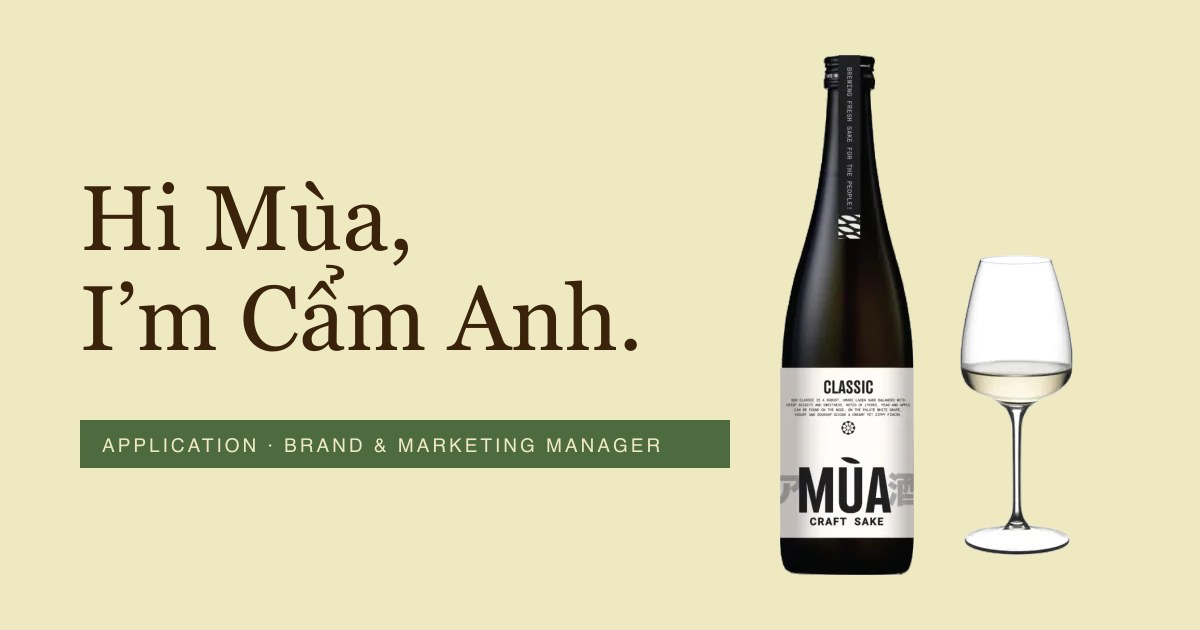
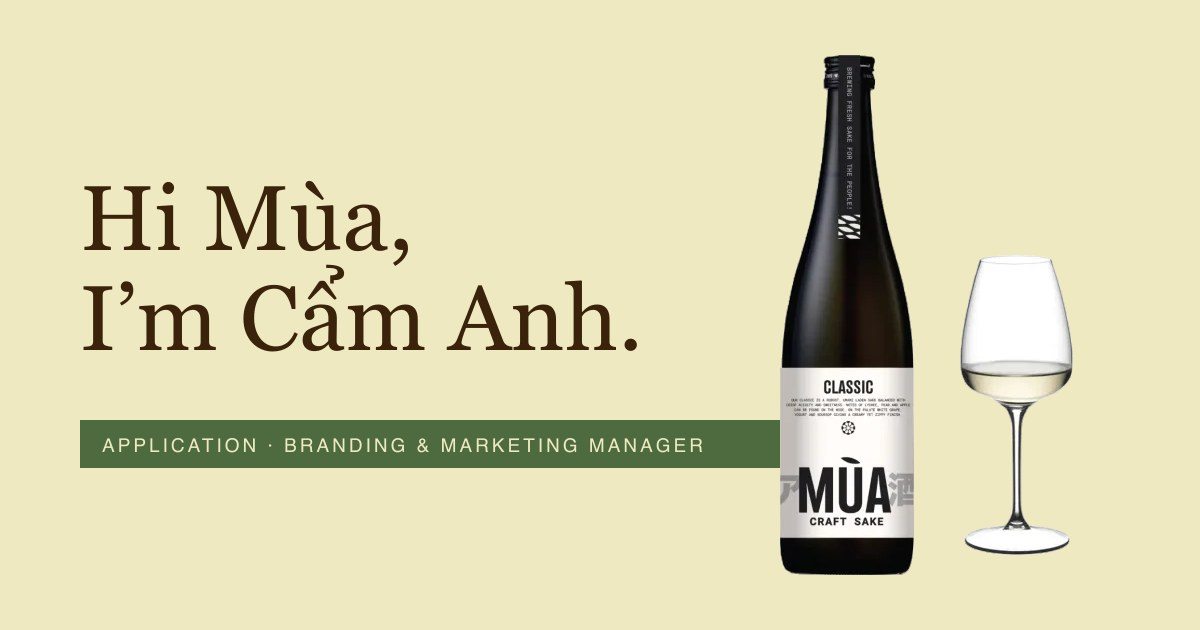
Role line: Branding & Marketing Manager

Changed region(s): [[0.3083, 0.6635, 0.6475, 0.754]]

diff --git a/content/cover.md b/content/cover.md
@@ -4,7 +4,7 @@ Hi Mùa, I’m Cẩm Anh.
 
 An F&B marketer who’s in love with Vietnamese culture and craftsmanship.
 
-Application · Brand & Marketing Manager
+Application · Branding & Marketing Manager
 
 BUILD NOTE: Source: "26. MÙA APPLYING. Web script", section Home. Paragraph order: greeting, one-line intro, role line (label). The the earlier version quote ("I believe good food is where connection begins.") and the the earlier version intro line are removed on purpose. The role line is [type of application] · [position]; Mùa is a direct application, so no "Open".
 BUILD NOTE: Layout is the earlier cover: the first row is the cover photo, full width. Below it the greeting (big), the intro line and the role label, clearly readable. The "Get to know me" section sits right below. A quiet "scroll" cue leads down from the photo.
